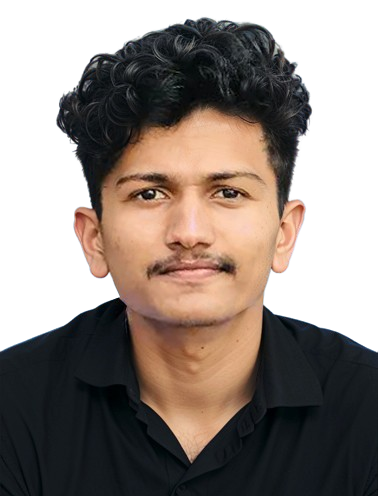
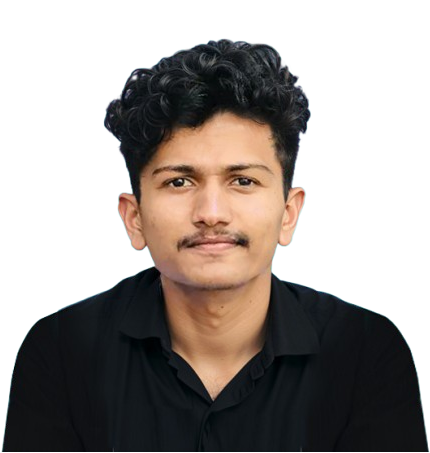
some photo changes

diff --git a/lib/utils/theme.dart b/lib/utils/theme.dart
@@ -15,15 +15,15 @@ class AppColors {
 
 class ButtonStyles {
   static ButtonStyle primary = ButtonStyle(
-    fixedSize: MaterialStateProperty.all(const Size(120, 50)),
+    fixedSize: WidgetStateProperty.all(const Size(120, 50)),
     overlayColor:
-        MaterialStateProperty.all(AppColors.blueAccent.withOpacity(0.1)),
-    shape: MaterialStateProperty.all(
+        WidgetStateProperty.all(AppColors.blueAccent.withOpacity(0.1)),
+    shape: WidgetStateProperty.all(
       RoundedRectangleBorder(
         borderRadius: BorderRadius.circular(4.0),
       ),
     ),
-    side: MaterialStateProperty.all(
+    side: WidgetStateProperty.all(
       const BorderSide(
         color: AppColors.blueAccent,
         width: 2.0,
@@ -33,15 +33,15 @@ class ButtonStyles {
   );
 
   static ButtonStyle resume = ButtonStyle(
-    fixedSize: MaterialStateProperty.all(const Size(120, 42)),
+    fixedSize: WidgetStateProperty.all(const Size(120, 42)),
     overlayColor:
-        MaterialStateProperty.all(AppColors.blueAccent.withOpacity(0.1)),
-    shape: MaterialStateProperty.all(
+        WidgetStateProperty.all(AppColors.blueAccent.withOpacity(0.1)),
+    shape: WidgetStateProperty.all(
       RoundedRectangleBorder(
         borderRadius: BorderRadius.circular(4.0),
       ),
     ),
-    side: MaterialStateProperty.all(
+    side: WidgetStateProperty.all(
       const BorderSide(
         color: AppColors.blueAccent,
         width: 2.0,

diff --git a/lib/sections/intro/intro.dart b/lib/sections/intro/intro.dart
@@ -1,5 +1,4 @@
 import 'package:auto_size_text/auto_size_text.dart';
-import 'package:flutter/gestures.dart';
 import 'package:flutter/material.dart';
 import 'package:shanu/data/keys.dart';
 import 'package:shanu/data/text.dart';
@@ -28,13 +27,13 @@ class Intro extends StatelessWidget {
               delay: const Duration(milliseconds: 750),
               child: Image.asset(
                 'assets/profile.png',
-                width: 225,
+                width: 280,
                 fit: BoxFit.fill,
-                scale: ResponsiveWidget.isMediumScreen(context) ? 4.0 : 2.5,
+                scale: ResponsiveWidget.isMediumScreen(context) ? 4.0 : 3,
               ),
             ),
           SizedBox(
-              width: ResponsiveWidget.isAtLeastLargeScreen(context) ? 30 : 0),
+              width: ResponsiveWidget.isAtLeastLargeScreen(context) ? 70 : 0),
           Flexible(
             child: Column(
               crossAxisAlignment: CrossAxisAlignment.start,
@@ -67,11 +66,11 @@ class Intro extends StatelessWidget {
   }
 
   Widget _about() {
-    return AutoSizeText.rich(
+    return const AutoSizeText.rich(
       TextSpan(
         style: TextStyles.paragraph,
         children: <TextSpan>[
-          const TextSpan(text: IntroData.about),
+          TextSpan(text: IntroData.about),
         ],
       ),
       maxLines: 5,

diff --git a/lib/sections/projects/projects.dart b/lib/sections/projects/projects.dart
@@ -1,6 +1,5 @@
 import 'dart:convert';
 import 'package:auto_animated/auto_animated.dart';
-import 'package:flutter/foundation.dart';
 import 'package:flutter/material.dart';
 import 'package:flutter/services.dart';
 import 'package:flutter_riverpod/flutter_riverpod.dart';

diff --git a/test/widget_test.dart b/test/widget_test.dart
@@ -8,7 +8,6 @@
 import 'package:flutter/material.dart';
 import 'package:flutter_test/flutter_test.dart';
 
-import 'package:shanu/main.dart';
 
 void main() {
   testWidgets('Counter increments smoke test', (WidgetTester tester) async {
